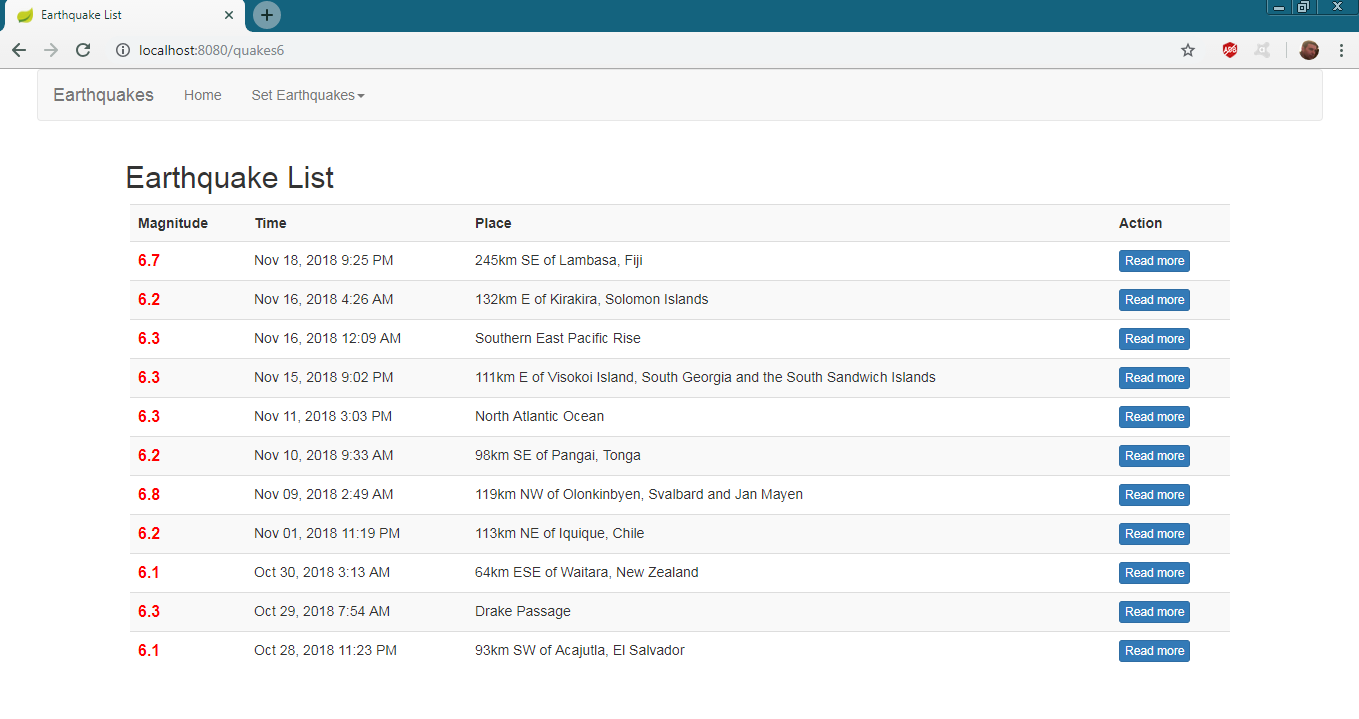
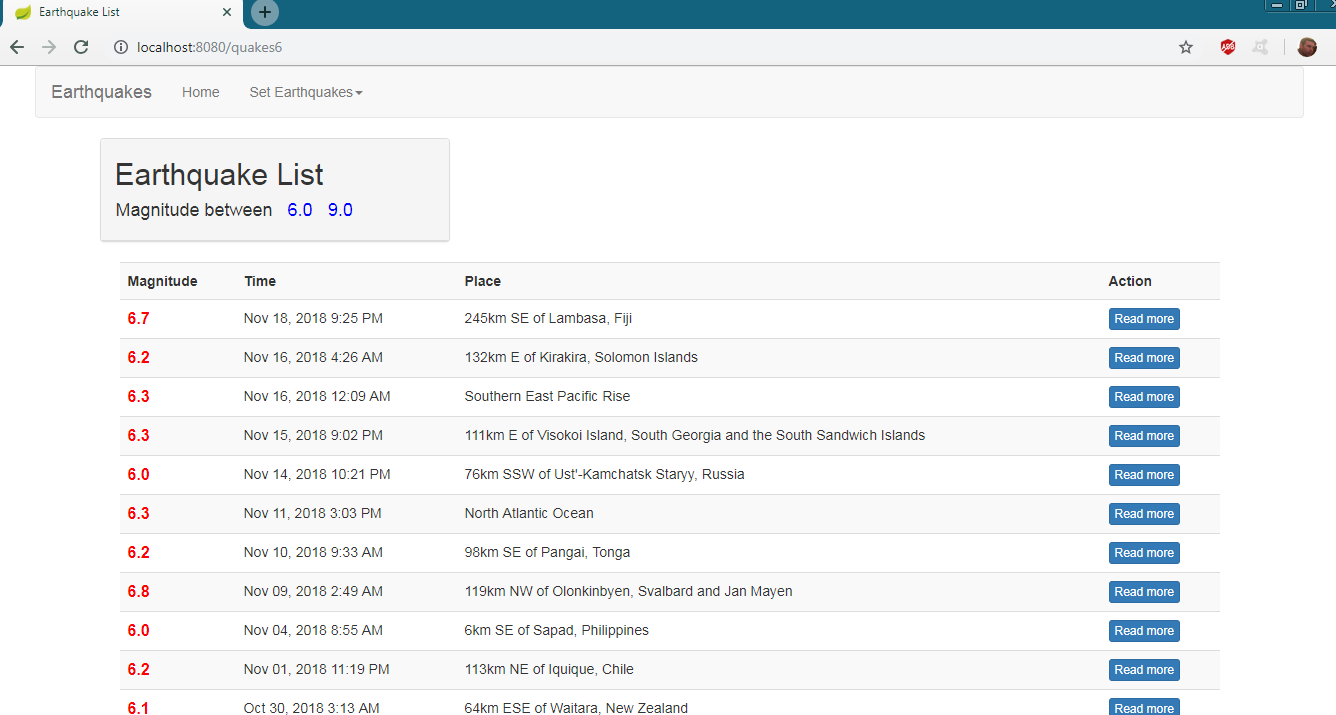
change images

diff --git a/src/main/resources/templates/quake_list.html b/src/main/resources/templates/quake_list.html
@@ -28,10 +28,10 @@
             <li class="dropdown">
                 <a href="#" class="dropdown-toggle" data-toggle="dropdown" role="button" aria-haspopup="true" aria-expanded="false">Set Earthquakes<span class="caret"></span></a>
                 <ul class="dropdown-menu">
-                    <li><a th:href="@{/quakes}">All Earthquakes</a></li>
+                    <li><a th:href="@{/quakesAll}">Magnitude between 5.0 and 9.0</a></li>
                     <li><a th:href="@{/quakes5}">Magnitude between 5.0 and 5.5</a></li>
                     <li><a th:href="@{/quakes5.5}">Magnitude between 5.5 and 6.0</a></li>
-                    <li><a th:href="@{/quakes6}">Magnitude greater than 6.0</a></li>
+                    <li><a th:href="@{/quakes6}">Magnitude between 6.0 and 9.0</a></li>
                 </ul>
             </li>
         </ul>
@@ -41,6 +41,15 @@
     <div class="col-md-4">
         <h2>Earthquake List</h2>
     </div>
+
+    <div class="panel panel-default" style="width: 350px">
+        <div class="panel-heading">
+            <h4>Magnitude between
+            <span style="color:blue" th:each="m : ${mag}">&nbsp;&nbsp;<span th:text="${m}"/>
+				</span></h4>
+        </div>
+    </div>
+
     <div style="padding:0 20px">
         <table class="table table-striped">
             <tr>

diff --git a/src/main/resources/templates/home.html b/src/main/resources/templates/home.html
@@ -32,10 +32,10 @@
             <li class="dropdown">
                 <a href="#" class="dropdown-toggle" data-toggle="dropdown" role="button" aria-haspopup="true" aria-expanded="false">Set Earthquakes<span class="caret"></span></a>
                 <ul class="dropdown-menu">
-                    <li><a th:href="@{/quakes}">All Earthquakes</a></li>
+                    <li><a th:href="@{/quakesAll}">Magnitude between 5.0 and 9.0</a></li>
                     <li><a th:href="@{/quakes5}">Magnitude between 5.0 and 5.5</a></li>
                     <li><a th:href="@{/quakes5.5}">Magnitude between 5.5 and 6.0</a></li>
-                    <li><a th:href="@{/quakes6}">Magnitude greater than 6.0</a></li>
+                    <li><a th:href="@{/quakes6}">Magnitude between 6.0 and 9.0</a></li>
                 </ul>
             </li>
         </ul>

diff --git a/src/main/java/com/zeljko/earthquakes/controller/QuakeController.java b/src/main/java/com/zeljko/earthquakes/controller/QuakeController.java
@@ -6,6 +6,8 @@ import org.springframework.beans.factory.annotation.Autowired;
 import org.springframework.stereotype.Controller;
 import org.springframework.ui.Model;
 import org.springframework.web.bind.annotation.*;
+
+import java.util.ArrayList;
 import java.util.List;
 
 @Controller
@@ -18,31 +20,47 @@ public class QuakeController {
         this.quakeService = quakeService;
     }
 
-    @RequestMapping("/quakes")
+    @RequestMapping("/quakesAll")
     public String list(Model model) {
         List<Quake> quakes = quakeService.getAllQuakes();
+        List<Double> mag = new ArrayList<>();
+        mag.add(5.0);
+        mag.add(9.0);
         model.addAttribute("quakes", quakes);
+        model.addAttribute("mag", mag);
         return "quake_list";
     }
 
     @RequestMapping("/quakes5")
     public String quakes4(Model model) {
         List<Quake> quakes = quakeService.getAllByMagBetween(5.0, 5.49);
+        List<Double> mag = new ArrayList<>();
+        mag.add(5.0);
+        mag.add(5.5);
         model.addAttribute("quakes", quakes);
+        model.addAttribute("mag", mag);
         return "quake_list";
     }
 
     @RequestMapping("/quakes5.5")
     public String quakes5(Model model) {
         List<Quake> quakes = quakeService.getAllByMagBetween(5.5, 6.0);
+        List<Double> mag = new ArrayList<>();
+        mag.add(5.5);
+        mag.add(6.0);
         model.addAttribute("quakes", quakes);
+        model.addAttribute("mag", mag);
         return "quake_list";
     }
 
     @RequestMapping("/quakes6")
     public String quakes6(Model model) {
-        List<Quake> quakes = quakeService.getAllByMagGreaterThan(6.0);
+        List<Quake> quakes = quakeService.getAllByMagBetween(6.0, 9.0);
+        List<Double> mag = new ArrayList<>();
+        mag.add(6.0);
+        mag.add(9.0);
         model.addAttribute("quakes", quakes);
+        model.addAttribute("mag", mag);
         return "quake_list";
     }
 
